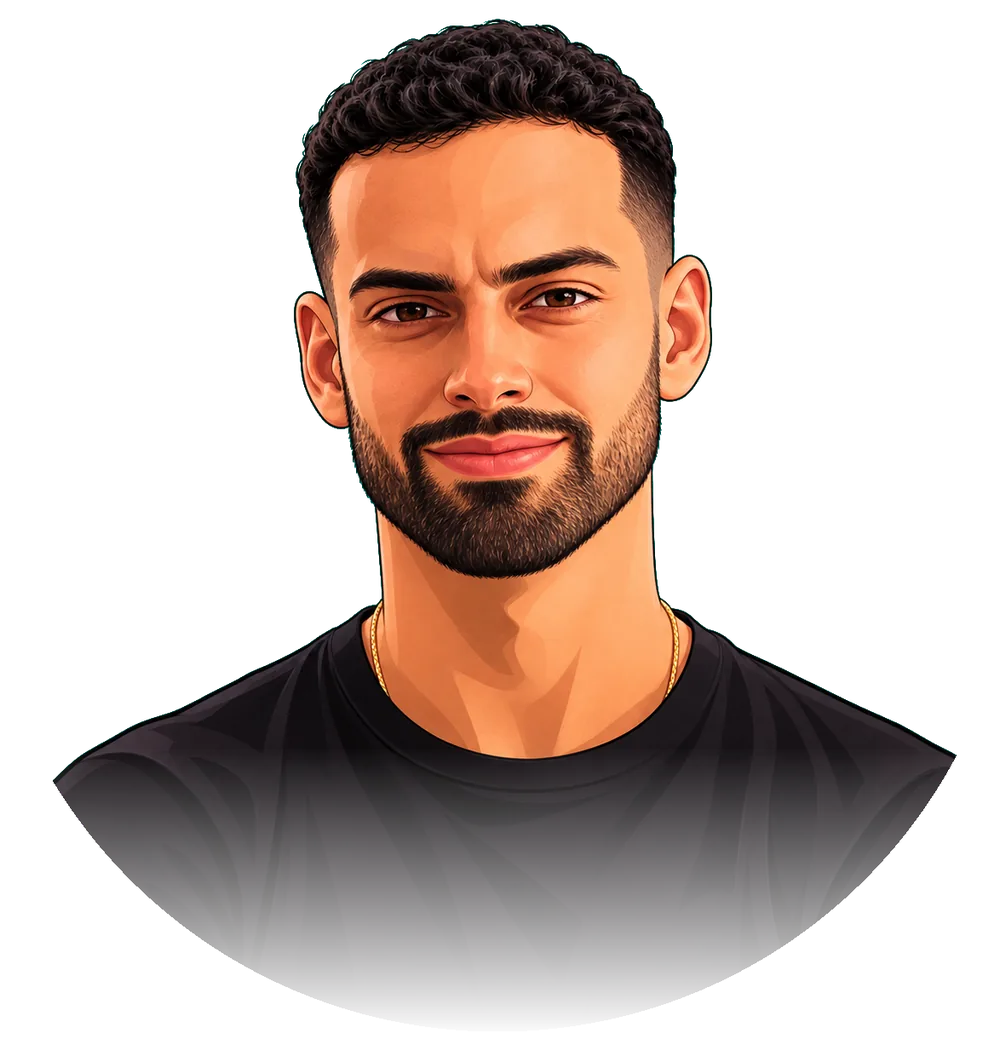
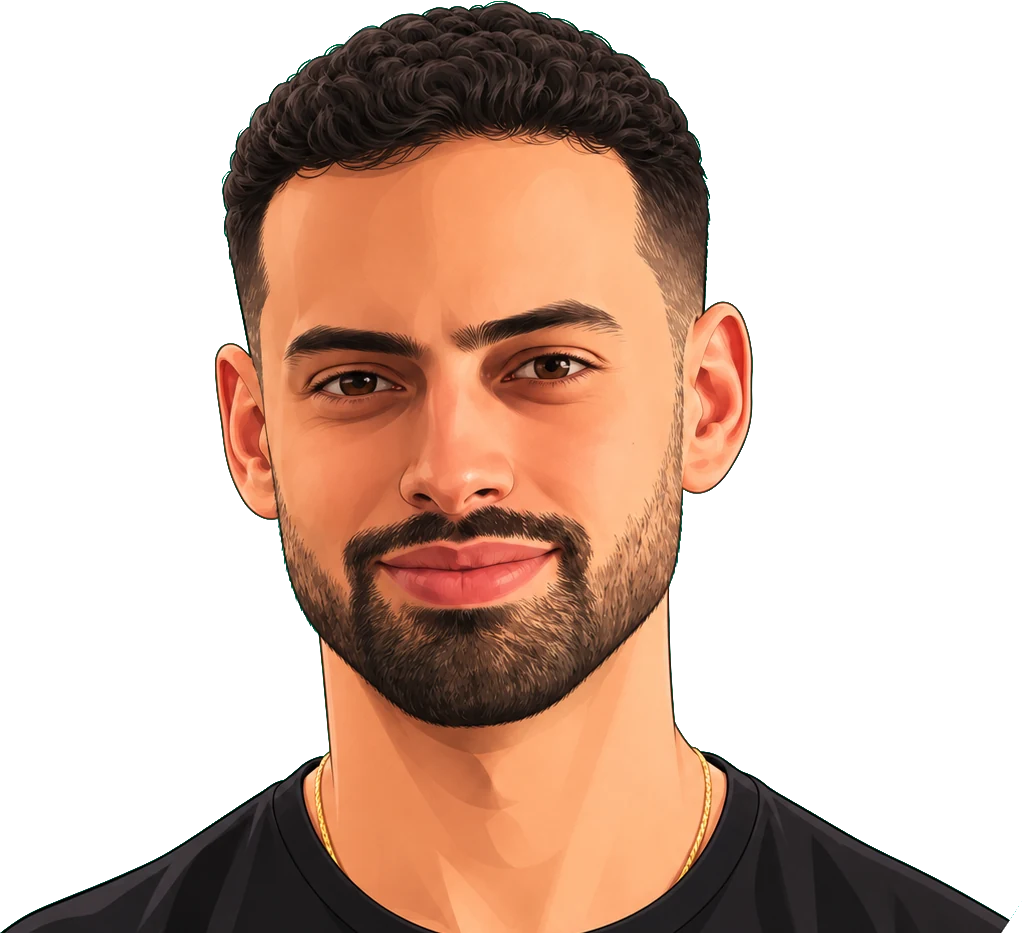
new portrait in hero and share card

diff --git a/index.html b/index.html
@@ -19,7 +19,7 @@
         <meta property="og:title" content="Bruno Santos · Frontend Engineer" />
         <meta property="og:description" content="Four years of production frontend, plus my own products and client work, from idea to launch." />
         <meta property="og:url" content="https://brun0sant0s.github.io/myCV/" />
-        <meta property="og:image" content="https://brun0sant0s.github.io/myCV/og-image.png?v=2" />
+        <meta property="og:image" content="https://brun0sant0s.github.io/myCV/og-image.png?v=5" />
         <meta property="og:image:width" content="1200" />
         <meta property="og:image:height" content="630" />
         <meta name="twitter:card" content="summary_large_image" />
